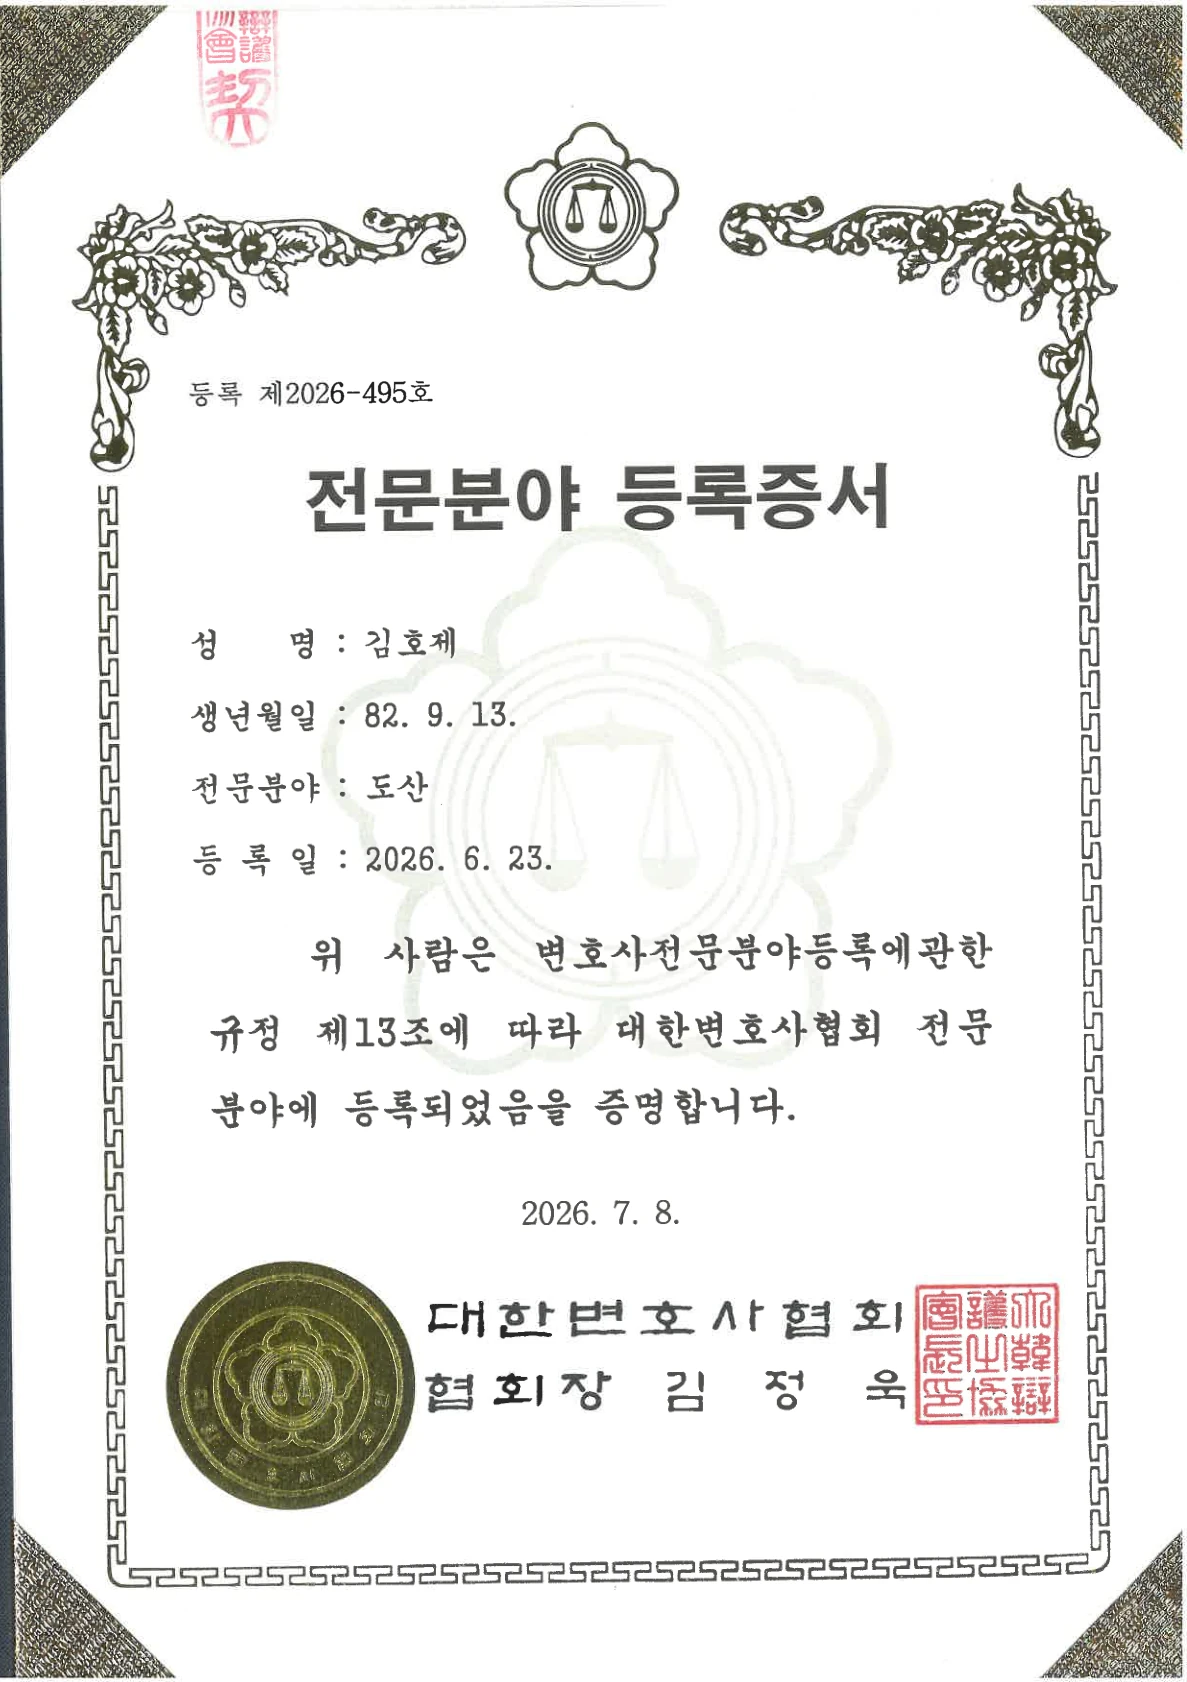
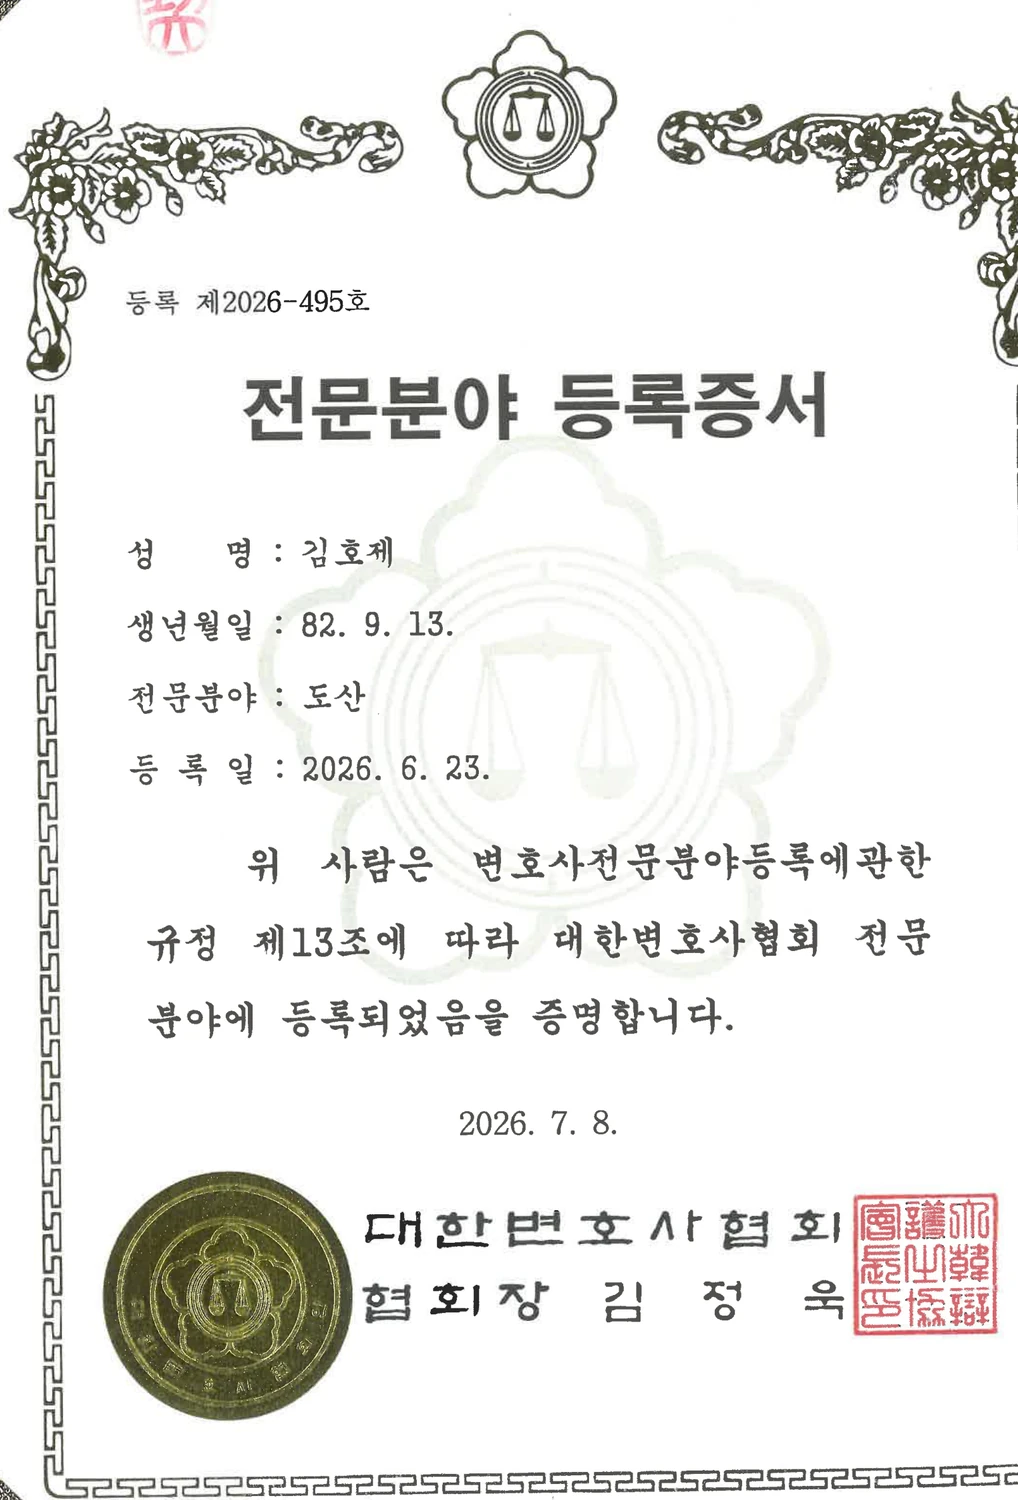
전문분야 등록증서 섹션을 밝은 카드형 디자인과 확대 보기로 통일합니다.

Changed region(s): [[0.0, 0.0, 1.0, 1.0], [0.4263, 0.0, 0.609, 0.184], [0.3959, 0.4907, 0.4872, 0.5213]]

diff --git a/index.html b/index.html
@@ -612,61 +612,88 @@
         }
 
         .certificate-section {
-            width: 100%;
-            padding: 48px 20px 56px;
-            background: #12122a;
-            box-sizing: border-box;
+            background: #f7f8fb;
+            padding: 50px 20px 60px;
         }
 
-        .certificate-inner {
-            max-width: 980px;
+        .certificate-container {
+            max-width: 960px;
             margin: 0 auto;
         }
 
         .certificate-title {
             text-align: center;
-            color: #ffffff;
-            font-size: 34px;
-            font-weight: 800;
-            margin: 0 0 10px;
+            color: #030530;
+            font-size: 32px;
+            font-weight: bold;
             font-family: 'Paperlogy', 'Gmarket Sans', 'Malgun Gothic', '맑은 고딕', sans-serif;
             letter-spacing: -0.02em;
+            margin-bottom: 10px;
         }
 
         .certificate-subtitle {
             text-align: center;
-            color: rgba(255, 255, 255, 0.72);
+            color: #4a4a5a;
             font-size: 16px;
-            margin: 0 0 28px;
-            line-height: 1.5;
+            line-height: 1.6;
+            margin-bottom: 32px;
+            font-family: 'Gmarket Sans', 'Malgun Gothic', '맑은 고딕', sans-serif;
         }
 
         .certificate-grid {
             display: grid;
-            grid-template-columns: 1fr 1fr;
+            grid-template-columns: repeat(2, minmax(0, 1fr));
             gap: 24px;
-            align-items: stretch;
+            align-items: start;
         }
 
         .certificate-item {
+            background: #fff;
+            border-radius: 10px;
+            overflow: hidden;
+            box-shadow: 0 6px 20px rgba(3, 5, 48, 0.1);
             margin: 0;
         }
 
         .certificate-item img {
+            display: block;
             width: 100%;
             height: auto;
-            display: block;
-            border-radius: 12px;
-            box-shadow: 0 10px 28px rgba(0, 0, 0, 0.36);
-            background: #fff;
+            cursor: zoom-in;
         }
 
-        .certificate-item figcaption {
-            margin-top: 12px;
+        .certificate-caption {
+            padding: 14px 16px 16px;
             text-align: center;
-            color: rgba(255, 255, 255, 0.78);
-            font-size: 14px;
-            line-height: 1.4;
+            color: #030530;
+            font-size: 15px;
+            font-weight: 600;
+            font-family: 'Gmarket Sans', 'Malgun Gothic', '맑은 고딕', sans-serif;
+        }
+
+        .certificate-lightbox {
+            display: none;
+            position: fixed;
+            inset: 0;
+            z-index: 10000;
+            background: rgba(0, 0, 0, 0.85);
+            align-items: center;
+            justify-content: center;
+            padding: 24px;
+            cursor: zoom-out;
+        }
+
+        .certificate-lightbox.show {
+            display: flex;
+        }
+
+        .certificate-lightbox img {
+            max-width: min(920px, 100%);
+            max-height: 90vh;
+            width: auto;
+            height: auto;
+            border-radius: 6px;
+            box-shadow: 0 10px 40px rgba(0, 0, 0, 0.45);
         }
 
         .discount-slider-section.animate .discount-card-section {
@@ -1495,28 +1522,28 @@
             }
 
             .certificate-section {
-                padding: 36px 16px 40px;
+                padding: 36px 16px 44px;
             }
 
             .certificate-title {
                 font-size: 24px;
-                margin-bottom: 8px;
             }
 
             .certificate-subtitle {
                 font-size: 14px;
-                margin-bottom: 20px;
+                margin-bottom: 22px;
             }
 
             .certificate-grid {
                 grid-template-columns: 1fr;
-                gap: 18px;
+                gap: 16px;
                 max-width: 420px;
                 margin: 0 auto;
             }
 
-            .certificate-item figcaption {
-                font-size: 13px;
+            .certificate-caption {
+                font-size: 14px;
+                padding: 12px 14px 14px;
             }
 
             .section-title {
@@ -1828,21 +1855,24 @@
             </div>
         </section>
         <section class="certificate-section" aria-label="대한변호사협회 전문분야 등록증서">
-            <div class="certificate-inner">
+            <div class="certificate-container">
                 <h2 class="certificate-title">전문분야 등록증서</h2>
-                <p class="certificate-subtitle">대한변호사협회 도산 전문분야 등록 · 등록 제2026-495호</p>
+                <p class="certificate-subtitle">대한변호사협회 도산 전문분야 등록 · 김호제 변호사</p>
                 <div class="certificate-grid">
                     <figure class="certificate-item">
-                        <img src="images/certificates/specialty-cover.webp" alt="대한변호사협회 전문분야 등록증서 표지" loading="lazy" width="1094" height="1682">
-                        <figcaption>대한변호사협회</figcaption>
+                        <img src="images/certificates/kba-cover.webp" alt="대한변호사협회 전문분야 등록증서 표지" loading="lazy" onclick="openCertificateLightbox(this.src, this.alt)">
+                        <figcaption class="certificate-caption">대한변호사협회</figcaption>
                     </figure>
                     <figure class="certificate-item">
-                        <img src="images/certificates/specialty-certificate.webp" alt="김호제 변호사 도산 전문분야 등록증서" loading="lazy" width="1187" height="1682">
-                        <figcaption>전문분야: 도산</figcaption>
+                        <img src="images/certificates/specialty-certificate.webp" alt="김호제 변호사 도산 전문분야 등록증서" loading="lazy" onclick="openCertificateLightbox(this.src, this.alt)">
+                        <figcaption class="certificate-caption">전문분야 등록증서 (도산)</figcaption>
                     </figure>
                 </div>
             </div>
         </section>
+        <div class="certificate-lightbox" id="certificateLightbox" onclick="closeCertificateLightbox()" aria-hidden="true">
+            <img id="certificateLightboxImg" src="" alt="">
+        </div>
         <section id="services"></section>
         <img src="images/pc/h-2.png" alt="법무법인 태윤 서비스 소개 - 채무조정 개인회생 신용회복 법률상담" class="section-image pc">
         <img src="images/mob/h-2-m.png" alt="법무법인 태윤 서비스 소개 - 채무조정 개인회생 신용회복 법률상담" class="section-image mobile">
@@ -2419,6 +2449,27 @@
             const modal = document.getElementById('successModal');
             modal.classList.remove('show');
             document.body.style.overflow = ''; // 스크롤 복원
+        }
+
+        function openCertificateLightbox(src, alt) {
+            const lightbox = document.getElementById('certificateLightbox');
+            const img = document.getElementById('certificateLightboxImg');
+            if (!lightbox || !img) return;
+            img.src = src;
+            img.alt = alt || '';
+            lightbox.classList.add('show');
+            lightbox.setAttribute('aria-hidden', 'false');
+            document.body.style.overflow = 'hidden';
+        }
+
+        function closeCertificateLightbox() {
+            const lightbox = document.getElementById('certificateLightbox');
+            const img = document.getElementById('certificateLightboxImg');
+            if (!lightbox) return;
+            lightbox.classList.remove('show');
+            lightbox.setAttribute('aria-hidden', 'true');
+            if (img) img.src = '';
+            document.body.style.overflow = '';
         }
         
         // 모달 배경 클릭 시 닫기
